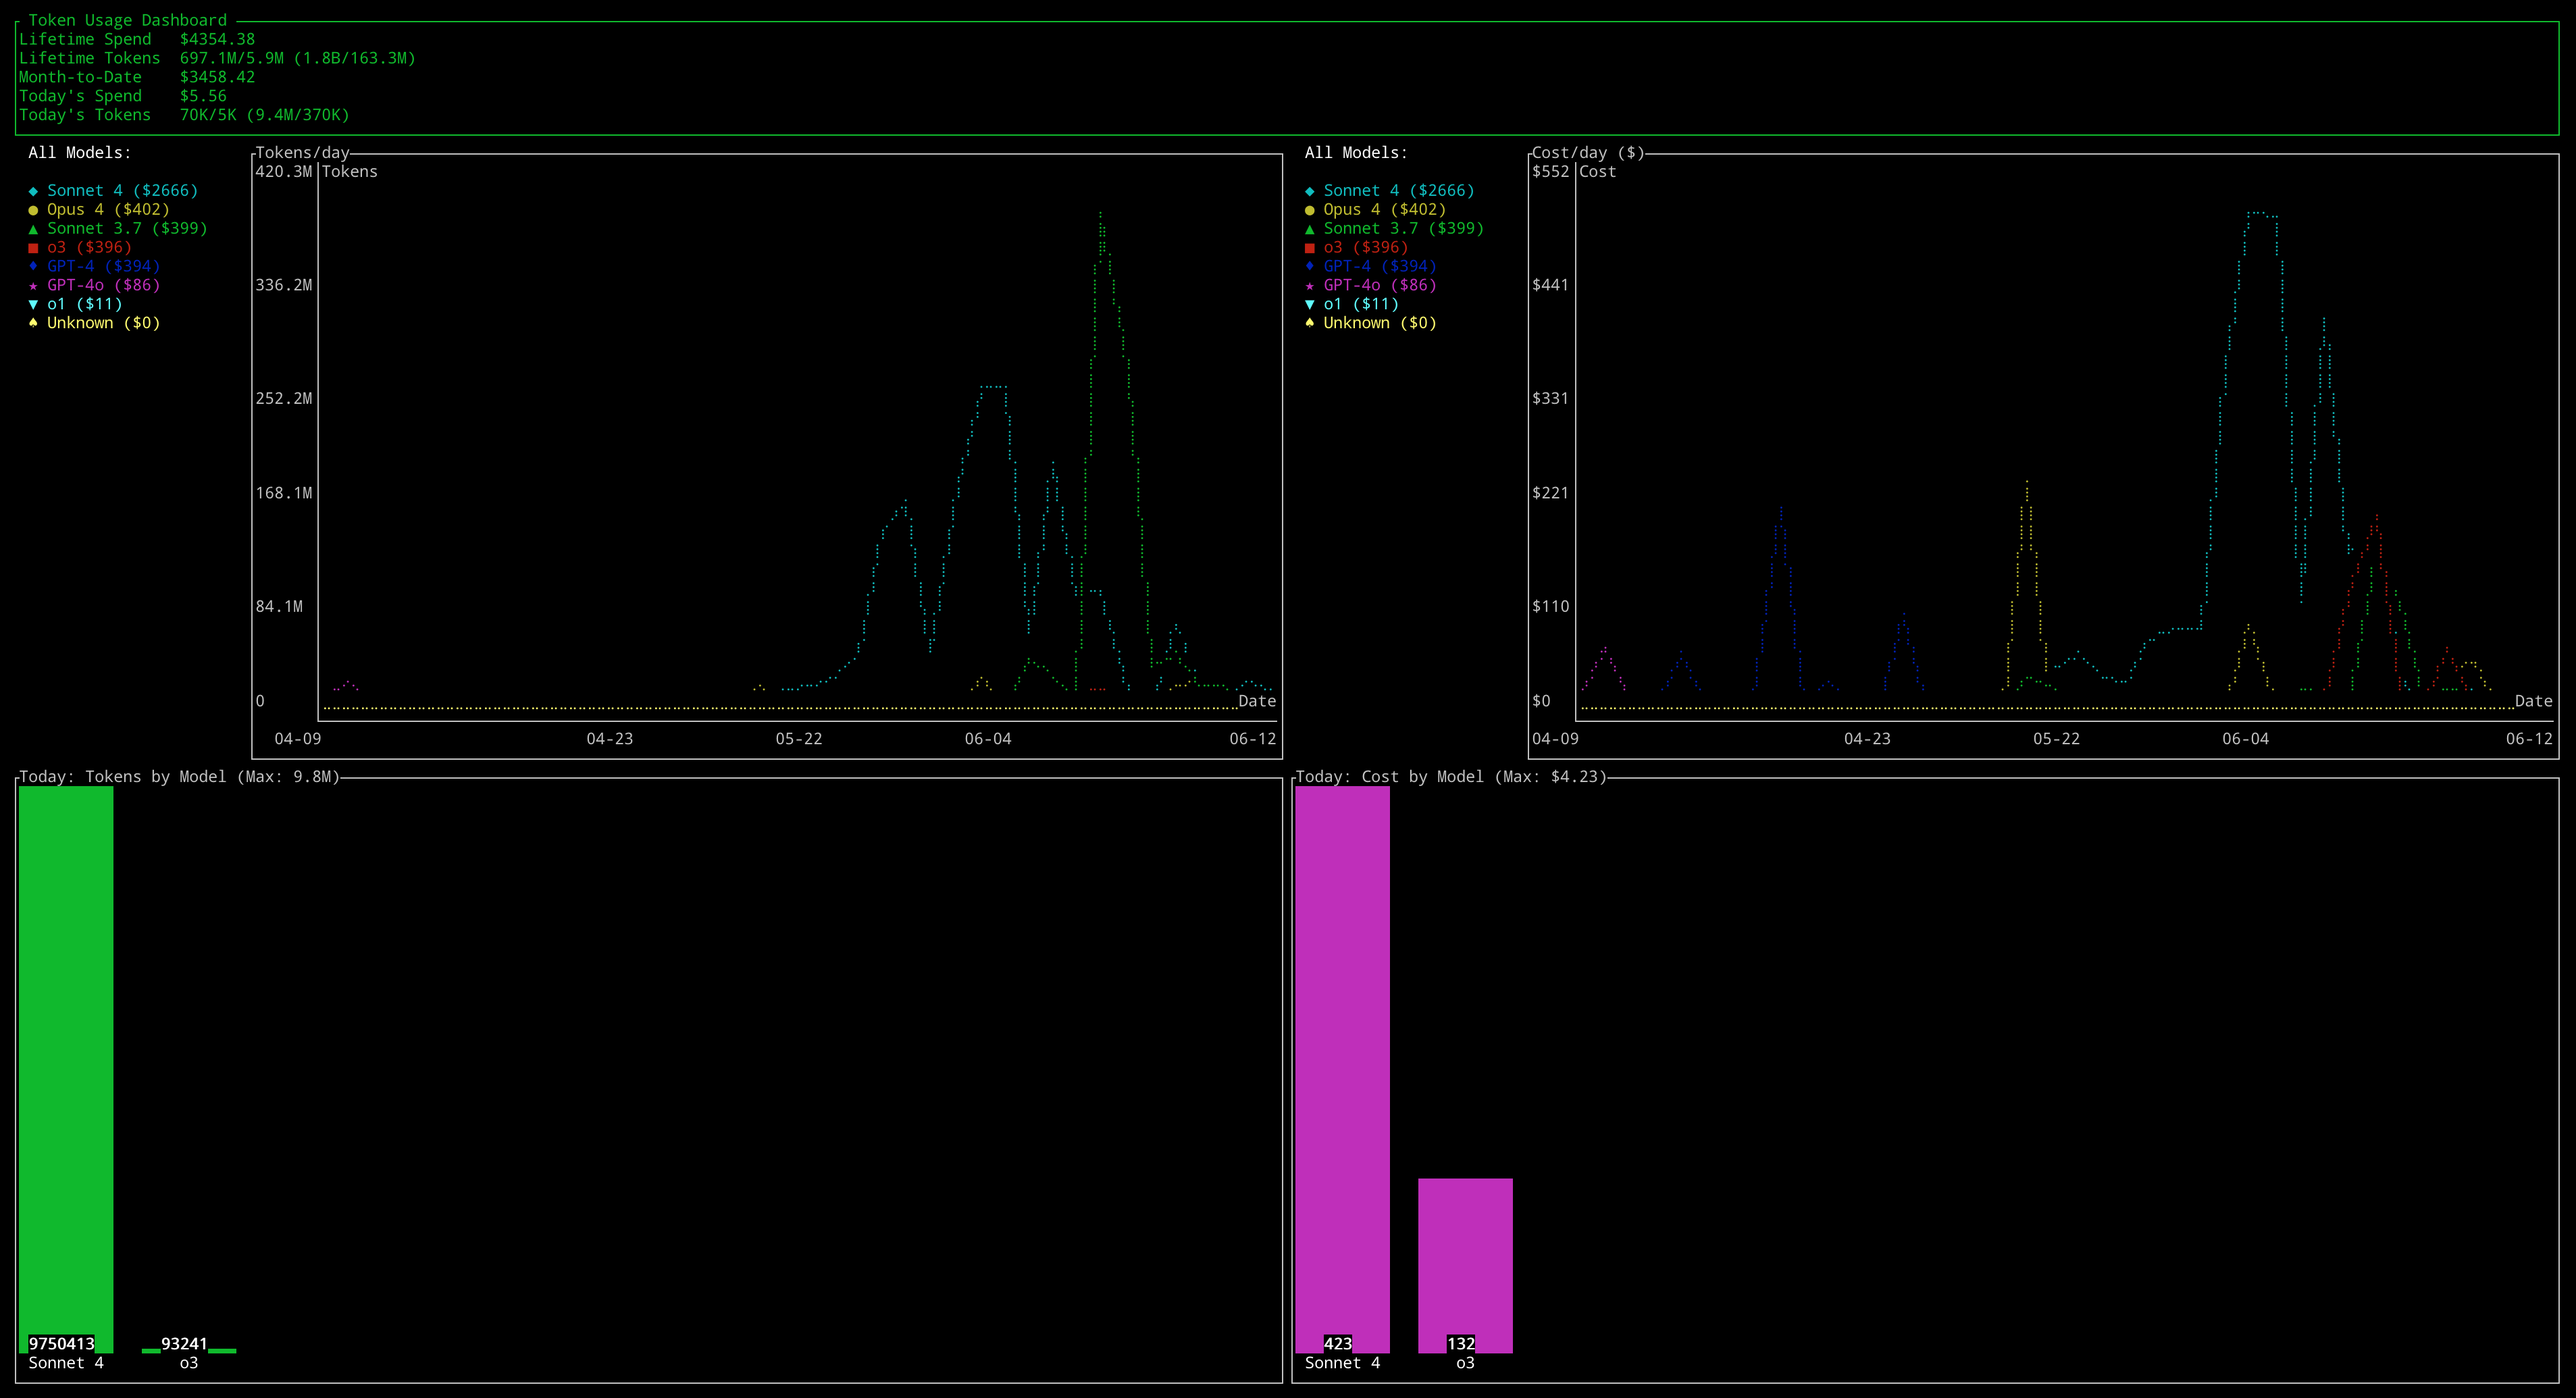
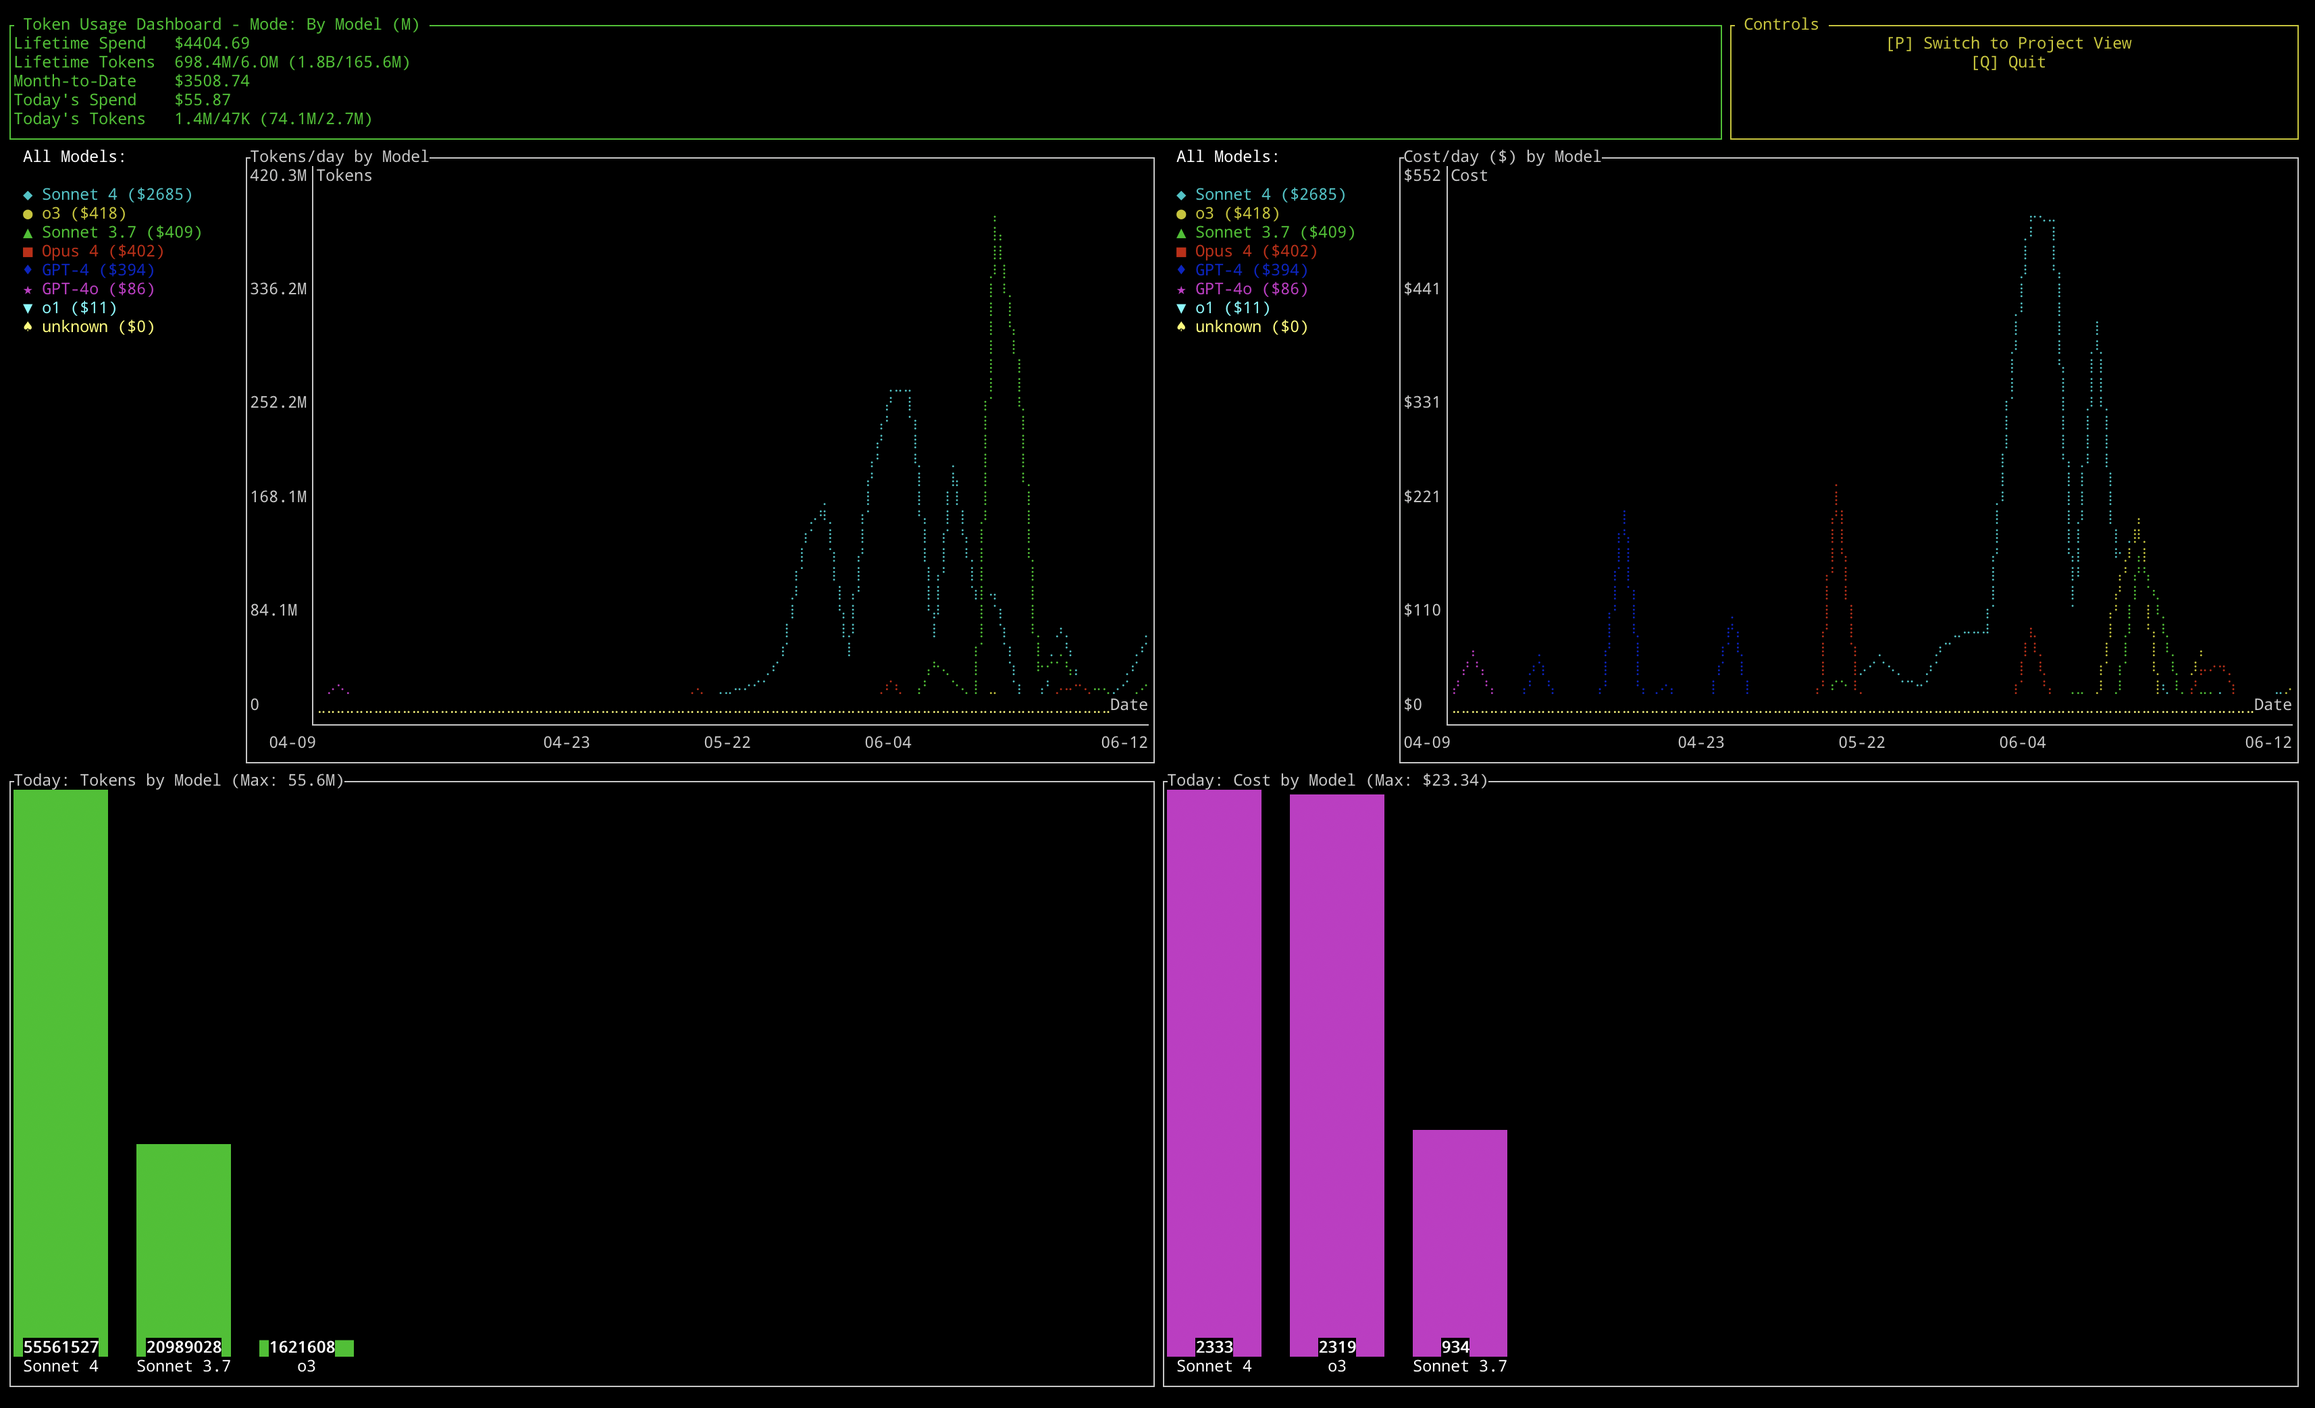
update and simplify README

diff --git a/README.md b/README.md
@@ -1,6 +1,6 @@
 # Token Usage Dashboard
 
-A real-time terminal dashboard for tracking Claude and OpenAI token usage and costs across all your projects when you use Claude Code or Goose CLI. This dashboard provides a comprehensive overview of your token consumption, costs, and trends, helping you manage your AI expenses effectively.
+A real-time terminal dashboard for tracking Claude and OpenAI token usage and costs across your projects when using Claude Code or Goose CLI. Monitor and analyze both model-based and project-based consumption patterns.
 
 ![Dashboard Screenshot](screenshot.png)
 
@@ -9,10 +9,9 @@ A real-time terminal dashboard for tracking Claude and OpenAI token usage and co
 - 🔄 **Real-time monitoring** - Updates every 10 seconds
 - 📊 **Visual charts** - Line graphs for usage trends, bar charts for daily breakdowns
 - 💰 **Cost tracking** - Accurate pricing for all major models including cache costs
-- 🎯 **Smart filtering** - Shows top 5 most expensive models with legend
-- 📈 **Multiple views** - Lifetime, month-to-date, and daily spending
-- 🚀 **Fast performance** - Parallel log scanning with intelligent caching for quick updates
-- ⚡ **Pure Rust** - No external runtime dependencies, single binary execution
+- 🎯 **Dual views** - Toggle between Model and Project perspectives
+- 📈 **Multiple timeframes** - Lifetime, month-to-date, and daily spending
+- 🚀 **Fast performance** - Parallel log scanning with intelligent caching
 - 🔧 **Multi-source** - Supports both Claude Code and Goose CLI logs
 
 ## Supported Models
@@ -65,183 +64,85 @@ cargo run
 ```
 
 ### Controls
-- **`q` or `Esc`** - Quit the dashboard
+- **`M`** - Switch to Model View (group data by AI model)
+- **`P`** - Switch to Project View (group data by codebase project)
+- **`Q` or `Esc`** - Quit the dashboard
 - **Auto-refresh** - Updates every 10 seconds
 
 ### Understanding the Display
 
-The dashboard shows four main sections:
+The dashboard shows five main sections:
 
-1. **Summary Panel** (top)
+1. **Summary Panel** (top-left)
    - Lifetime spend and token counts
    - Month-to-date totals
    - Today's usage and costs
 
-2. **Usage Trends** (top-left chart)
-   - Daily token usage over time
-   - Shows top 5 models by total spend
-   - Color-coded lines with legend
+2. **Controls Panel** (top-right)
+   - Available keyboard shortcuts
+   - Shows current view mode
 
-3. **Cost Trends** (top-right chart)  
+3. **Usage Trends** (middle-left chart)
+   - Daily token usage over time
+   - Color-coded by model or project
+   - View changes based on current mode (M/P)
+
+4. **Cost Trends** (middle-right chart)  
    - Daily cost over time
-   - Same top 5 model filtering
+   - Same grouping as Usage Trends
    - Dollar amounts on Y-axis
 
-4. **Daily Breakdowns** (bottom charts)
-   - Today's usage by model (tokens and cost)
+5. **Daily Breakdowns** (bottom charts)
+   - Today's usage by model or project
    - Bar charts showing current day totals
 
-## Where does the data come from?
+## Data Sources & Configuration
 
-The dashboard automatically scans conversation logs from:
+The dashboard automatically scans logs from:
 
-- **Claude Code logs**: `~/.claude/projects/` - Contains `.jsonl` files with conversation history
-- **Goose CLI logs**: `~/.local/state/goose/logs/cli/` - Contains session logs with token usage
+- **Claude Code**: `~/.claude/projects/` - JSONL conversation files
+- **Goose CLI**: `~/.local/state/goose/logs/cli/` - Session logs
 
-These directories contain the raw conversation data that gets parsed to extract token usage and calculate costs. If you don't see any data, make sure you have used Claude Code or Goose CLI and have conversation logs in these locations.
+Performance optimizations:
+- **Caching**: `~/.cache/claude-token-burn/` - Only re-parses modified files
+- **Parallel Processing**: Uses all CPU cores for fast scanning
+- **Clear cache**: `rm -rf ~/.cache/claude-token-burn/` if needed
 
-## Configuration
+## Project Views
 
-### Data Sources
+One of the key features is the ability to toggle between different perspectives:
 
-The dashboard automatically scans these locations:
+- **Model View (M key)**: Groups all usage data by AI model
+  - See which models cost the most across all projects
+  - Identify high-token-consumption models
 
-- **Claude Code logs**: `~/.claude/projects/`
-- **Goose CLI logs**: `~/.local/state/goose/logs/cli/`
+- **Project View (P key)**: Groups usage data by codebase project
+  - Track which projects consume the most tokens
+  - Monitor spending across different repositories
 
-### Cache Management
+## Installation & Usage
 
-Parser data is cached for performance:
-- **Cache location**: `~/.cache/claude-token-burn/`
-- **Cache behavior**: Only re-parses modified files
-- **Clear cache**: `rm -rf ~/.cache/claude-token-burn/`
-
-### Custom Paths
-
-The dashboard automatically detects log directories. If you need custom paths, they can be configured in the source code.
-
-## Architecture
-
-### Components
-
-- **`src/main.rs`** - Terminal UI dashboard built with ratatui
-- **`src/parser.rs`** - Native Rust parser with parallel processing for conversation logs and cost calculation
-- **Cache system** - Intelligent file caching with modification detection for fast performance
-
-### Data Flow
-
-1. **Parser** scans `.jsonl` conversation files and Goose logs in parallel
-2. **Extracts** token usage and model information concurrently
-3. **Calculates** costs using built-in pricing tables
-4. **Caches** results with intelligent modification detection
-5. **Dashboard** renders real-time UI with pre-computed aggregates
-
-### Performance Optimizations
-
-- **Parallel Processing** - Uses `rayon` for concurrent file scanning across CPU cores
-- **Smart Caching** - Only re-parses files when modification time changes
-- **UI Aggregates** - Pre-computed totals to avoid recalculation on every frame
-- **Pure Rust** - No Python or Node.js runtime overhead, compiles to single binary
-
-### Cost Calculation
-
-Costs are calculated using official pricing:
-- **Input tokens** - Standard per-model rates
-- **Output tokens** - Higher rates for generation
-- **Cache creation** - One-time cost for prompt caching
-- **Cache reads** - Reduced cost for cached content
-
-## Development
-
-### Project Structure
-```
-token-dashboard/
-├── src/
-│   ├── main.rs          # Dashboard UI code
-│   └── parser.rs        # Native Rust log parser
-├── Cargo.toml           # Rust dependencies
-├── LICENSE              # MIT license
-└── README.md            # This file
-```
-
-### Building
 ```bash
-# Debug build
-cargo build
-
-# Release build (faster)
+# Build the dashboard
 cargo build --release
 
-# Run with live reload during development
+# Run with cargo
 cargo run
-```
 
-### Adding New Models
-
-1. **Add pricing** to `MODEL_PRICING` in `src/parser.rs`
-2. **Add normalization** logic in `normalize_model_name()`
-3. **Test** with sample data
-
-Example:
-```rust
-m.insert("New Model", ModelPricing {
-    input_tokens: 0.005,
-    output_tokens: 0.015,
-    input_tokens_cache_write: Some(0.00625),
-    input_tokens_cache_read: Some(0.0005),
-});
+# Or use the release binary
+./target/release/token-dashboard
 ```
 
 ## Troubleshooting
 
-### No Data Showing
-- Check that you have Claude Code or Goose conversation logs
-- Verify log directories exist: `~/.claude/projects/` or `~/.local/state/goose/logs/cli/`
-- Test data loading: `cargo run -- --test`
-
-### Costs Showing as $0
-- Model might not have pricing defined
-- Check `normalize_model_name()` function maps your model correctly
-- Verify pricing table includes the normalized model name
-
-### Terminal Display Issues
-- Ensure terminal supports colors and is large enough
-- Try different terminal emulators
-- Check that you're running in an actual TTY (not piped output)
-
-### Performance Issues
-- Clear cache if it becomes corrupted: `rm -rf ~/.cache/claude-token-burn/`
-- Large log directories benefit from parallel processing on first scan
-- Subsequent runs should be very fast due to intelligent caching
-- Modern multi-core systems will see significant performance improvements
-
-## Future Work
-
-1. **Single-binary distribution** – `cargo install token-dashboard` support
-2. **Plugin system** – allow new log sources (OpenAI audit logs, Azure billing) via Rust trait objects
-3. **Configuration file** – YAML-based pricing and settings configuration
-
-## Contributing
-
-1. **Fork** the repository
-2. **Create** a feature branch
-3. **Make** your changes
-4. **Test** thoroughly
-5. **Submit** a pull request
-
-### Areas for Contribution
-- Additional model support
-- New visualization types
-- Export capabilities
-- Configuration options
-- Performance improvements
+- **No data?** Verify log directories exist and contain files
+- **Test data loading**: `cargo run -- --test`
+- **Display issues**: Ensure terminal supports colors and is large enough
 
 ## License
 
-MIT License - see LICENSE file for details.
+MIT License
 
-## Acknowledgments
+## Credits
 
-- Built with [ratatui](https://github.com/ratatui-org/ratatui) for terminal UI
-- Supports [Claude Code](https://claude.ai/code) and [Goose](https://github.com/square/goose) workflows
-- Pricing data from official Anthropic and OpenAI documentation
+Built with [ratatui](https://github.com/ratatui-org/ratatui) for terminal UI rendering.
